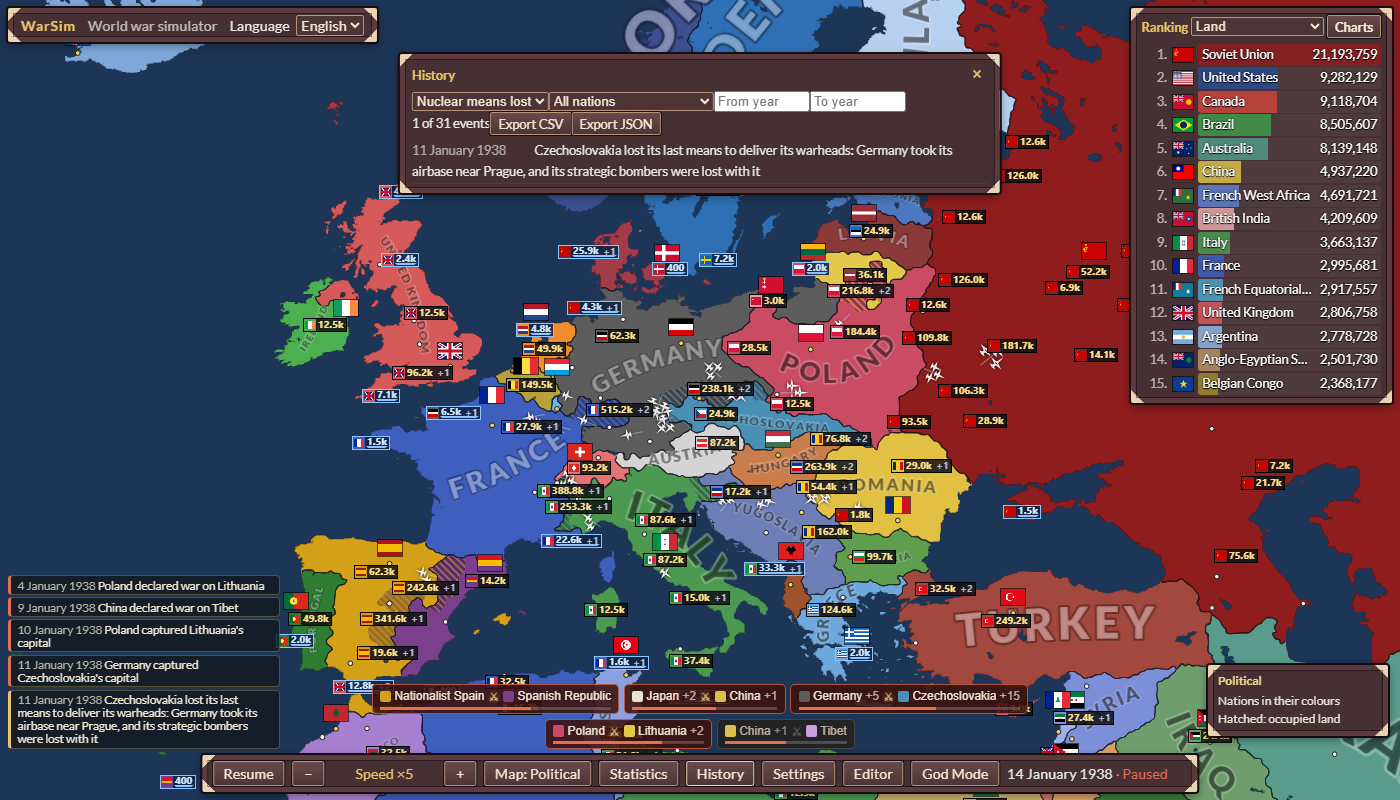
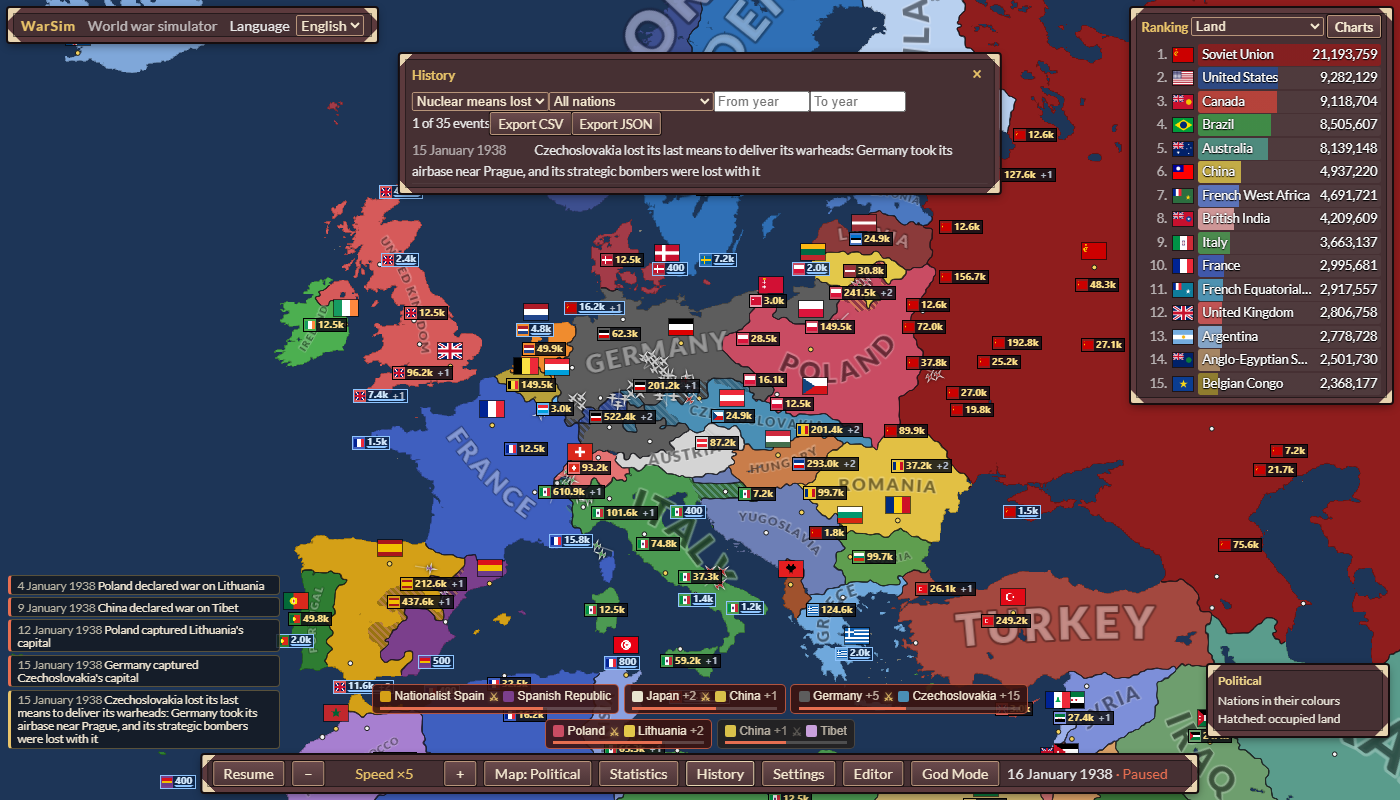
PLAN 7.5, step 2: four 1938 specs find their event instead of pinning its day (ADR-675)
check:review on 9ffb0274 was red with five tests not on knownRed.json. Green at
896ff779; the cadre rule ruled out. Each case probed on HEAD: the event still
happens, on another day. nukeMeansLost, stackBlocks, tankHulls and turrets now
step to it within a cap. tankSides is a defect, not history: its own commit.

Claude-Session: https://claude.ai/code/session_01P4MUDZ9CYcUwjizmLSVXWV

diff --git a/tests/e2e/stackBlocks1938.spec.ts b/tests/e2e/stackBlocks1938.spec.ts
@@ -7,9 +7,9 @@ import { flankCase } from '../helpers/flankCase';
 
 // PLAN 3.11c1 (the critic's R3-B3: "five tank formations share one cell as interleaved
 // diamonds", `critic/shots/c3j_11_tank_paused_0040m.png`): the critic's game (seed 1212, the
-// Soviet Union against Poland by God Mode) on day 6. Two tank corps and four tank brigades of
-// one stack go to the block of one Polish division; a brigade's block is 7 by 4 elements and a
-// corps' 11 by 5, and each line stood a block of its own behind and beside the line before it:
+// Soviet Union against Poland by God Mode) on day 6 (found since `9ffb0274`, below). Two
+// tank corps and four tank brigades of one stack go to the block of one Polish division; a
+// brigade's block is 7 by 4 elements and a corps' 11 by 5, and each line stood a block of its own behind and beside the line before it:
 // the brigades' tanks stood between the corps'. Every block now stands clear of the others.
 
 const nation = (tag: string): number => NATIONS_1938.findIndex((n) => n.tag === tag) + 1;
@@ -27,35 +27,31 @@ test('the blocks of a stack of tank corps and tank brigades in contact do not st
   await page.setViewportSize(VIEW);
   await page.goto('/?scenario=1938&paused=1&seed=1212');
   await page.waitForFunction(() => (window.__warsim?.view?.frames ?? 0) > 0 && window.__warsim!.hud.stats.value !== null && window.__warsim!.sim.mapLayers !== null, null, { timeout: 60_000 });
-  await page.evaluate(async ({ SOV, POL }) => {
-    const sim = window.__warsim!.sim;
-    sim.command({ kind: 'declareWar', attacker: SOV, defender: POL });
-    let tick = 0;
-    for (let d = 0; d < 6; d++) tick = (await sim.step(24)).tick;
-    await new Promise<void>((done) => {
-      const wait = (): void => (window.__warsim!.view!.lastTick === tick ? done() : void setTimeout(wait, 5));
-      wait();
-    });
-  }, { SOV, POL });
-
   // The Soviet armour in contact, and of it the formation with the most of the others within a cell.
-  const armour = await page.evaluate(async (SOV) => {
-    const { sim, view } = window.__warsim!;
-    const templates = sim.mapLayers!.templates;
-    const found: { id: number; x: number; y: number }[] = [];
-    for (const id of view!.formationsOf(SOV)) {
-      const d = await sim.formation(id);
-      if (!d?.engaged || templates[d.template]?.symbol !== 'armour') continue;
-      const [x, y] = view!.formationPos(id)!;
-      found.push({ id, x, y });
-    }
-    return found;
-  }, SOV);
-  expect(armour.length, 'Soviet armour formations in contact on day 6').toBeGreaterThanOrEqual(4);
-  const near = (a: (typeof armour)[number]): number => armour.filter((b) => Math.hypot(a.x - b.x, a.y - b.y) < 1).length;
-  const centre = armour.reduce((best, a) => (near(a) > near(best) ? a : best));
-  expect(near(centre), 'armour formations of one stack').toBeGreaterThanOrEqual(4);
-
+  // Green at `896ff779`, red at `9ffb0274`: the rules between moved the stack's day. The war is
+  // stepped a day at a time, within 30 days, to the first day the scene below is in the view at
+  // 40 m/px: five armour formations in contact within a cell of one another (six on day 6 at
+  // 3.11c1), ten pairs of Soviet formations in contact, and a pair not in contact (PLAN 7.4f38).
+  type Armour = { id: number; x: number; y: number };
+  const stepDay = (): Promise<Armour[]> =>
+    page.evaluate(async (SOV) => {
+      const { sim, view } = window.__warsim!;
+      const templates = sim.mapLayers!.templates;
+      const tick = (await sim.step(24)).tick;
+      await new Promise<void>((done) => {
+        const wait = (): void => (view!.lastTick === tick ? done() : void setTimeout(wait, 5));
+        wait();
+      });
+      const found: Armour[] = [];
+      for (const id of view!.formationsOf(SOV)) {
+        const d = await sim.formation(id);
+        if (!d?.engaged || templates[d.template]?.symbol !== 'armour') continue;
+        const [x, y] = view!.formationPos(id)!;
+        found.push({ id, x, y });
+      }
+      return found;
+    }, SOV);
+  let centre: Armour = { id: 0, x: 0, y: 0 };
   /** The view on the stack at `m` metres a pixel, with the section of that zoom drawn. */
   const goTo = (m: number): Promise<void> =>
     page.evaluate(async ({ x, y, m }) => {
@@ -66,13 +62,11 @@ test('the blocks of a stack of tank corps and tank brigades in contact do not st
       await new Promise((d) => setTimeout(d, 400));
       v.draw(performance.now());
     }, { x: centre.x, y: centre.y, m });
-
-  await goTo(40);
   // For every two formations of the section: how near an element of one stands to an element of the other.
   // Of the Soviet formations, those in contact: the stack's blocks (PLAN 6.9: marching formations
   // at one place came into the view when the world's course changed; their columns are another
   // matter, a line under PLAN 7.4).
-  const pairs = await page.evaluate(async (SOV) => {
+  const readPairs = () => page.evaluate(async (SOV) => {
     const { sim } = window.__warsim!;
     const v = window.__warsim!.view!;
     const soviet = new Set<number>();
@@ -100,6 +94,26 @@ test('the blocks of a stack of tank corps and tank brigades in contact do not st
     }
     return { formations: ids.length, elements: v.elementCount, out };
   }, SOV);
+  await page.evaluate(({ SOV, POL }) => window.__warsim!.sim.command({ kind: 'declareWar', attacker: SOV, defender: POL }), { SOV, POL });
+  let armour: Armour[] = [];
+  let pairs: Awaited<ReturnType<typeof readPairs>> | null = null;
+  let day = 0;
+  const near = (a: Armour): number => armour.filter((b) => Math.hypot(a.x - b.x, a.y - b.y) < 1).length;
+  while (pairs === null && day < 30) {
+    day++;
+    armour = await stepDay();
+    if (armour.length === 0) continue;
+    centre = armour.reduce((best, a) => (near(a) > near(best) ? a : best));
+    if (near(centre) < 5) continue;
+    await goTo(40);
+    const seen = await readPairs();
+    if (seen.out.filter((p) => p.soviet).length >= 10 && seen.out.some((p) => p.free)) pairs = seen;
+  }
+  console.log(`seed 1212: the Soviet stack of armour in contact on day ${day}`);
+  expect(pairs, 'the stack and a column in the view within 30 days').not.toBeNull();
+  if (pairs === null) return;
+  expect(armour.length, 'Soviet armour formations in contact').toBeGreaterThanOrEqual(4);
+  expect(near(centre), 'armour formations of one stack').toBeGreaterThanOrEqual(4);
   const own = pairs.out.filter((p) => p.soviet);
   expect(pairs.formations, 'formations with elements in the view at 40 m/px').toBeGreaterThanOrEqual(6);
   expect(own.length, 'pairs of Soviet formations in contact in the view').toBeGreaterThanOrEqual(10);

diff --git a/tests/e2e/tankHulls1938.spec.ts b/tests/e2e/tankHulls1938.spec.ts
@@ -6,7 +6,8 @@ import { NATIONS_1938 } from '../../src/sim/scenario1938';
 
 // PLAN 7.23a (critic run 8, tanks 7: "in 45 s at Speed x1 at 25 m/px on a live armour fight,
 // hulls.shown stayed at 0"): the critic's case. Seed 3929, Germany at war with Poland and France
-// from the start; on day 3 Germany's armoured division 41 is in contact with France's infantry.
+// from the start; on day 3 Germany's armoured division 41 was in contact with France's infantry
+// (since `9ffb0274` the formation and the day are found: the first German armour fighting France).
 // The camera on it at 25 m/px, the game at Speed x1: within 45 s a tank hull burns on the screen.
 // Before 7.23a its tanks took 3.5 tanks of fire in two days in fractions over 34 elements, and
 // lost none; now an element of tanks fired at loses whole tanks (ADR-501). The marks of the
@@ -26,21 +27,33 @@ test("the critic's armour fight at Speed x1: a tank hull burns on the screen wit
       const { sim, view } = window.__warsim!;
       sim.command({ kind: 'declareWar', attacker: ger!, defender: pol! });
       sim.command({ kind: 'declareWar', attacker: ger!, defender: fra! });
-      const t = (await sim.step(72)).tick;
-      await new Promise<void>((done) => {
-        const wait = (): void => (view!.lastTick === t ? done() : void setTimeout(wait, 5));
-        wait();
-      });
-      const s = await sim.inspect(true);
-      const f = s.formations.find((g) => g.id === 41)!;
-      const foe = Math.min(...s.formations.filter((g) => g.nation === fra && !g.wing).map((g) => Math.hypot(g.x - f.x, g.y - f.y)));
-      return { nation: f.nation, kind: view!.formationTitle(41)?.kind ?? '', x: f.x, y: f.y, foe };
+      // Green at `896ff779`, red at `9ffb0274`: the rules between moved the world, and Germany's
+      // panzer divisions now all go to Poland (more than 20 cells from France for 30 days). The war
+      // is stepped a day at a time, within 15 days, until a German armour formation in contact
+      // stands within 1.5 cells of a French one (a tank brigade on day 9 at `9ffb0274`).
+      const templates = sim.mapLayers!.templates;
+      for (let day = 1; day <= 15; day++) {
+        const t = (await sim.step(24)).tick;
+        await new Promise<void>((done) => {
+          const wait = (): void => (view!.lastTick === t ? done() : void setTimeout(wait, 5));
+          wait();
+        });
+        const s = await sim.inspect(true);
+        const french = s.formations.filter((g) => g.nation === fra && !g.wing);
+        for (const f of s.formations) {
+          if (f.nation !== ger || f.wing || !view!.formationEngaged(f.id)) continue;
+          if (templates[(await sim.formation(f.id))?.template ?? -1]?.symbol !== 'armour') continue;
+          const foe = Math.min(...french.map((g) => Math.hypot(g.x - f.x, g.y - f.y)));
+          if (foe < 1.5) return { id: f.id, day, nation: f.nation, kind: view!.formationTitle(f.id)?.kind ?? '', x: f.x, y: f.y, foe };
+        }
+      }
+      return { id: 0, day: -1, nation: 0, kind: '', x: 0, y: 0, foe: Infinity };
     },
     [id('GER'), id('POL'), id('FRA')],
   );
-  // The critic's division: Germany's armour, in contact with France's on day 3.
+  // The critic's division: Germany's armour, in contact with France's.
   expect(division.nation).toBe(id('GER'));
-  expect(division.kind).toMatch(/Armoured/);
+  expect(division.kind).toMatch(/Armoured|Tank/);
   expect(division.foe).toBeLessThan(1.5);
 
   // Every frame the page draws: the tank hulls on the screen, those alight, and the marks of the fallen apart.
@@ -91,7 +104,7 @@ test("the critic's armour fight at Speed x1: a tank hull burns on the screen wit
   const out = process.env['EVIDENCE'] !== undefined ? path.resolve(import.meta.dirname, '../../docs/evidence/7.23') : info.outputPath();
   mkdirSync(out, { recursive: true });
   await page.screenshot({ path: path.join(out, 'a-burning-hull-x1-spec.png') });
-  console.log(`armoured division 41 at ${M_PER_PX} m/px, Speed x1: first flame at ${Math.round(seen.firstFlame)} ms, at most ${seen.tanks} tank hulls on the screen (${seen.burning} burning, ${seen.flames} alight in a frame), ${seen.marks} marks of the fallen apart, in ${seen.frames} frames; the camera at ${framed.cam.cx.toFixed(2)}, ${framed.cam.cy.toFixed(2)} (the division at ${division.x.toFixed(2)}, ${division.y.toFixed(2)}), the hull at ${framed.hull?.map((c) => c.toFixed(2)).join(', ')}`);
+  console.log(`armoured division ${division.id} (day ${division.day}) at ${M_PER_PX} m/px, Speed x1: first flame at ${Math.round(seen.firstFlame)} ms, at most ${seen.tanks} tank hulls on the screen (${seen.burning} burning, ${seen.flames} alight in a frame), ${seen.marks} marks of the fallen apart, in ${seen.frames} frames; the camera at ${framed.cam.cx.toFixed(2)}, ${framed.cam.cy.toFixed(2)} (the division at ${division.x.toFixed(2)}, ${division.y.toFixed(2)}), the hull at ${framed.hull?.map((c) => c.toFixed(2)).join(', ')}`);
   expect(seen.firstFlame, 'a tank hull alight within 45 s at x1').toBeGreaterThanOrEqual(0);
   expect(seen.firstFlame).toBeLessThan(WATCH_MS);
   expect(seen.burning).toBeGreaterThan(0);

diff --git a/tests/helpers/armourFire.ts b/tests/helpers/armourFire.ts
@@ -1,6 +1,7 @@
 import { FIRE_STRIDE, FireField } from '../../src/shared/events';
 import { SIZE_1938 } from '../../src/sim/scenario1938';
 import { Sim } from '../../src/sim/sim';
+import type { World } from '../../src/sim/world';
 import { assets1938 } from './earth';
 
 // Where armour fires in the 1938 world (PLAN 3.6): the specs of the tanks' pictures put the
@@ -19,8 +20,9 @@ export interface Fire {
  * FireEvents and the state hashes around it (PLAN 6.9: a fixed hour, day 14, lost its armour's
  * fight when the rules changed the world's course; the hour is found, not taken on trust). More
  * than 50: the specs want more than 20 tanks firing in view; the first week's fights had 20.
+ * `accept`, when given, must also hold of the hour's fires and the world after it.
  */
-export function armourFires(from: number, least = 50): { start: number; fires: Fire[]; before: number; after: number } {
+export function armourFires(from: number, least = 50, accept?: (fires: readonly Fire[], world: World) => boolean): { start: number; fires: Fire[]; before: number; after: number } {
   const sim = new Sim({ scenario: '1938', seed: 1938, assets: assets1938(SIZE_1938.w) });
   sim.step(from);
   for (let start = from; start < from + 24 * 60; start++) {
@@ -36,9 +38,27 @@ export function armourFires(from: number, least = 50): { start: number; fires: F
       w.out.fires.length = 0;
       w.out.events.length = 0;
     });
-    if (fires.length > least) return { start, fires, before, after: sim.hash() };
+    if (fires.length > least && (accept?.(fires, sim.world) ?? true)) return { start, fires, before, after: sim.hash() };
   }
   throw new Error(`no hour of armour fire in the 60 days from ${from}`);
+}
+
+/**
+ * Whether a tank element of a formation within `cells` of `[cx, cy]` fires none of `fires`: a view
+ * on the busiest square then has a tank that keeps its turret on its hull (PLAN 3.6b).
+ */
+export function idleTankNear(world: World, fires: readonly Fire[], [cx, cy]: readonly [number, number], cells = 1): boolean {
+  const shooters = new Set(fires.map((f) => f.shooter));
+  const units = world.rules!.units;
+  const e = world.elements.cols;
+  const fc = world.formations.cols;
+  let idle = false;
+  world.elements.forEach((i) => {
+    if (idle || shooters.has(i) || !units[e.unit[i]!]?.cls.startsWith('armor')) return;
+    const f = e.formation[i]!;
+    if (Math.hypot(fc.x[f]! - cx, fc.y[f]! - cy) <= cells) idle = true;
+  });
+  return idle;
 }
 
 /** Centre of the 2-cell square with the most shooters. */

diff --git a/tests/e2e/nukeMeansLost1938.spec.ts b/tests/e2e/nukeMeansLost1938.spec.ts
@@ -1,6 +1,7 @@
 import { expect, test } from '@playwright/test';
 import path from 'node:path';
 import type {} from '../../src/app/testApi';
+import { EventKind } from '../../src/shared/events';
 import { cellOf } from '../../src/sim/data/terrain';
 import { NATIONS_1938, SIZE_1938 } from '../../src/sim/scenario1938';
 import { open1938 } from './mapView';
@@ -8,7 +9,8 @@ import { open1938 } from './mapView';
 // PLAN 7.37b3 (critic runs 9 and 10, `c10_g2_5309_CZS.json`: Czechoslovakia, armed in the editor,
 // dies holding its 10 warheads and "nothing in play says the means are lost"): the critic's set-up
 // on seed 5309, a strategic bomber group placed at Prague and 10 warheads in the editor, Germany's
-// war on it. Prague's airbase falls on day 10 or 11 and its bombers with it: the history says so.
+// war on it. Prague's airbase falls (day 10 or 11 then, day 15 at `9ffb0274`) and its bombers
+// with it: the history says so.
 
 const { w: W, h: H } = SIZE_1938;
 const id = (tag: string): number => NATIONS_1938.findIndex((n) => n.tag === tag) + 1;
@@ -32,7 +34,17 @@ test("a holder's last means of delivery lost is in the history: Czechoslovakia's
   await expect(page.getByTestId('editor-means')).toContainText('strategic bomber group at Prague');
   await page.getByTestId('editor-btn').click();
   await page.evaluate(({ a, d }) => window.__warsim!.sim.command({ kind: 'declareWar', attacker: a, defender: d }, true), { a: GER, d: CZS });
-  await page.evaluate(() => window.__warsim!.sim.step(24 * 13));
+  // The day the airbase falls moves with the world's rules (13 days at 7.37b3, 14 at ADR-634, 15 at `9ffb0274`):
+  // the war is stepped a day at a time until the row is in the history, within 30 days.
+  const day = await page.evaluate(async (KIND) => {
+    const sim = window.__warsim!.sim;
+    for (let d = 1; d <= 30; d++) {
+      await sim.step(24);
+      if ((await sim.history()).some((r) => r.kind === KIND)) return d;
+    }
+    return -1;
+  }, EventKind.NukeMeansLost);
+  expect(day, "the day Czechoslovakia's means are lost, within 30 days of the war").toBeGreaterThan(0);
   await page.getByTestId('history-btn').click();
   await page.getByTestId('history-kind').selectOption({ label: 'Nuclear means lost' });
   await expect(page.getByTestId('history-row')).toHaveCount(1);

diff --git a/tests/e2e/turrets1938.spec.ts b/tests/e2e/turrets1938.spec.ts
@@ -2,7 +2,7 @@ import { expect, test } from '@playwright/test';
 import { mkdirSync } from 'node:fs';
 import path from 'node:path';
 import type {} from '../../src/app/testApi';
-import { armourFires, busiest } from '../helpers/armourFire';
+import { armourFires, busiest, idleTankNear } from '../helpers/armourFire';
 
 // PLAN 3.6b AT: the turrets of tanks in contact are not all at their hulls' facing. Some weeks
 // into 1938 the square with the most armour firing is found in Node, the camera is put on it at
@@ -15,7 +15,9 @@ import { armourFires, busiest } from '../helpers/armourFire';
 /**
  * From day 16: the first hour of armour fire after it (`armourFires`). From the first week's end
  * before ADR-539: since the scene moved (ADR-538's bisect) every start from day 6 to 14 finds an hour in
- * which every tank in the view fires, and none is left to keep its turret on its hull.
+ * which every tank in the view fires, and none is left to keep its turret on its hull. Green at
+ * `896ff779`, red at `9ffb0274`: day 16's first hour was such an hour too: the hour is now the first
+ * from day 16 with a tank near the busiest square that does not fire (`idleTankNear`).
  */
 const FROM = 24 * 16;
 const M_PER_PX = 60;
@@ -27,7 +29,7 @@ const off = (a: number, b: number): number => Math.atan2(Math.sin(b - a), Math.c
 
 test('T2 and T3: a tank that fires has its turret on its target, and back on its hull after a silence', async ({ page }, info) => {
   test.setTimeout(240_000);
-  const node = armourFires(FROM);
+  const node = armourFires(FROM, 50, (fires, world) => idleTankNear(world, fires, busiest(fires)));
   const START = node.start;
   expect(node.fires.length).toBeGreaterThan(30);
   const [cx, cy] = busiest(node.fires);

diff --git a/DECISIONS.md b/DECISIONS.md
@@ -167,6 +167,30 @@ level directly; hillshade at higher zoom adds procedural detail (SPEC §8 T2/T3)
 runtime. Regenerating assets is idempotent (`npm run data -- --check` fails on drift), and
 `tests/unit/data-manifest.test.ts` verifies sha256, sizes, known places and pyramid consistency.
 
+### ADR-675 · 2026-10-23 · accepted — Four 1938 specs find their event instead of pinning its day (PLAN 7.5, step 2)
+
+- **Context.** `npm run check:review` on `9ffb0274` (before critic run 13): five browser tests red twice
+  and not on `knownRed.json`. Green at `896ff779` (critic run 12's review); the cadre rule (ADR-673)
+  ruled out: with `src/sim/ai/economic.ts` at `2640964c` the five are still red. Not bisected further:
+  each was probed on HEAD in Node (`.cache/probe/`, not kept) for whether its event still happens.
+- **Decision** (history moved, claim kept, as ADR-634 did): each spec steps to its event within a cap
+  instead of taking a fixed day or hour.
+  - `nukeMeansLost1938`: Prague's airbase now falls on day 15 (13 then 14 before): a day at a time until
+    the "Nuclear means lost" row is in the history, within 30 days.
+  - `stackBlocks1938`: seed 1212's stack of Soviet armour (six on day 6 at 3.11c1) has four on day 9 and
+    no column beside it: a day at a time, within 30, to the first day whose view at 40 m/px holds five
+    armour formations in contact within a cell, ten pairs in contact and a pair not in contact (day 16).
+  - `tankHulls1938`: seed 3929's panzer divisions now all go to Poland, more than 20 cells from France
+    for 30 days: the first German armour formation in contact within 1.5 cells of a French one, within
+    15 days (tank brigade 49, day 9; a hull alight 12 s in at Speed x1).
+  - `turrets1938`: day 16's first hour of armour fire had every tank in the view firing (256 = 256): the
+    first hour from day 16 with a tank near the busiest square that fires none of the hour's shots
+    (`idleTankNear`, `tests/helpers/armourFire.ts`; `armourFires` takes an `accept` check).
+- **Not this ADR:** `tankSides1938`, the fifth. Its first fair case (division 42, day 4, 929 enemy
+  figures) fails the claim itself: German tanks 6.8 lightness off a light ground, bar 20. A defect, not
+  history: its own commit.
+- **Consequences:** no rule; the pin unchanged (f9d18365).
+
 ### ADR-674 · 2026-10-23 · accepted, option a (the user's decision, 2026-10-23) — A defence that rises: the sweeps still meet nothing (PLAN 7.101)
 
 - **Context** (`docs/evidence/7.101/read.md`). PLAN 7.101 (ADR-672 b): a fighter wing at an airbase with no

diff --git a/PROGRESS.md b/PROGRESS.md
@@ -23166,3 +23166,15 @@ No rule changed and nothing on screen changed. One task came out of it.
   score to the next critic report.
 - The pin unchanged (f9d18365).
 - **Next:** PLAN 7.5 (the critic run: `npm run check:review`, then the critic).
+
+## 2026-10-23 — PLAN 7.5, step 2: check:review red before critic run 13; four specs restated (ADR-675)
+
+- **check:review on `9ffb0274`:** red, 5 not known (nukeMeansLost1938, stackBlocks1938, tankHulls1938,
+  tankSides1938, turrets1938), 3 known (formationFight1938, tankBattle1938, zoomDemo1938). Green at
+  `896ff779`; the cadre rule ruled out (the five red with `economic.ts` at `2640964c`).
+- **Probed in Node on HEAD:** each event still happens, on another day. Restated to find it within a cap
+  (ADR-675): means lost day 15; the Soviet stack with a column in view day 16; German armour on France,
+  tank brigade 49 day 9; the turrets' hour with a tank that holds fire.
+- **Specs by hand, green:** nukeMeansLost1938, stackBlocks1938 (2), tankHulls1938, turrets1938.
+- **Left:** tankSides1938 is a defect (German tanks 6.8 lightness off a light ground, bar 20): next
+  commit. formationFight1938 and tankBattle1938 now fail on content here, not the GPU's: to be looked at.
